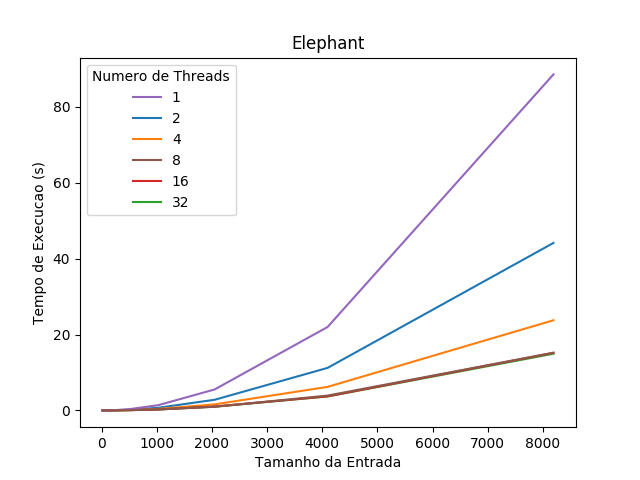
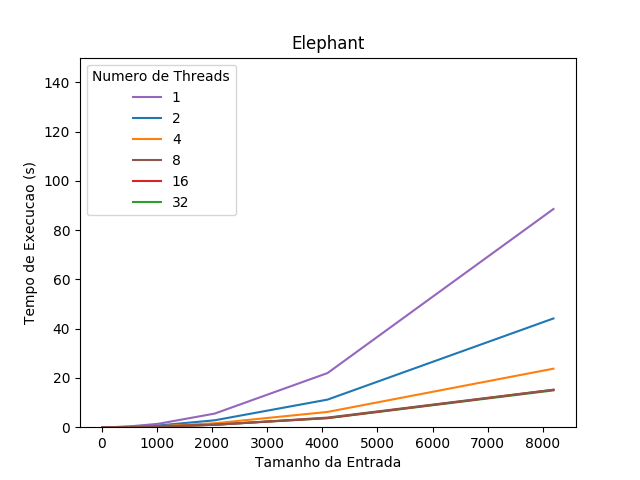
setting range for y axis and legend position

diff --git a/results/script.py b/results/script.py
@@ -38,7 +38,9 @@ x = [2**i for i in range(4, 14)]
 for file_name in file_times:
     plt.plot(x, file_times[file_name], label=(file_name.split('/')[1]).split('.')[0])
 
-plt.legend()
+axes = plt.gca()
+axes.set_ylim([0,150])
+plt.legend(loc="upper left")
 plt.title('Sequencial')
 plt.xlabel('Tamanho da Entrada')
 plt.ylabel('Tempo de Execucao (s)')
@@ -64,10 +66,11 @@ for folder in folders:
         for file_name in file_times:
             plt.plot(x, file_times[file_name], label=((file_name.split('/')[1]).split('.')[0]).split('_')[-1])
 
-        ax=gca()
-        handles, labels = ax.get_legend_handles_labels()
+        axes = plt.gca()
+        handles, labels = axes.get_legend_handles_labels()
         labels, handles = zip(*sorted(zip(labels, handles), key=lambda t: int(t[0])))
-        plt.legend(handles, labels, title='Numero de Threads')
+        axes.set_ylim([0,150])
+        plt.legend(handles, labels, title='Numero de Threads', loc="upper left")
         plt.title(image.title())
         plt.xlabel('Tamanho da Entrada')
         plt.ylabel('Tempo de Execucao (s)')
